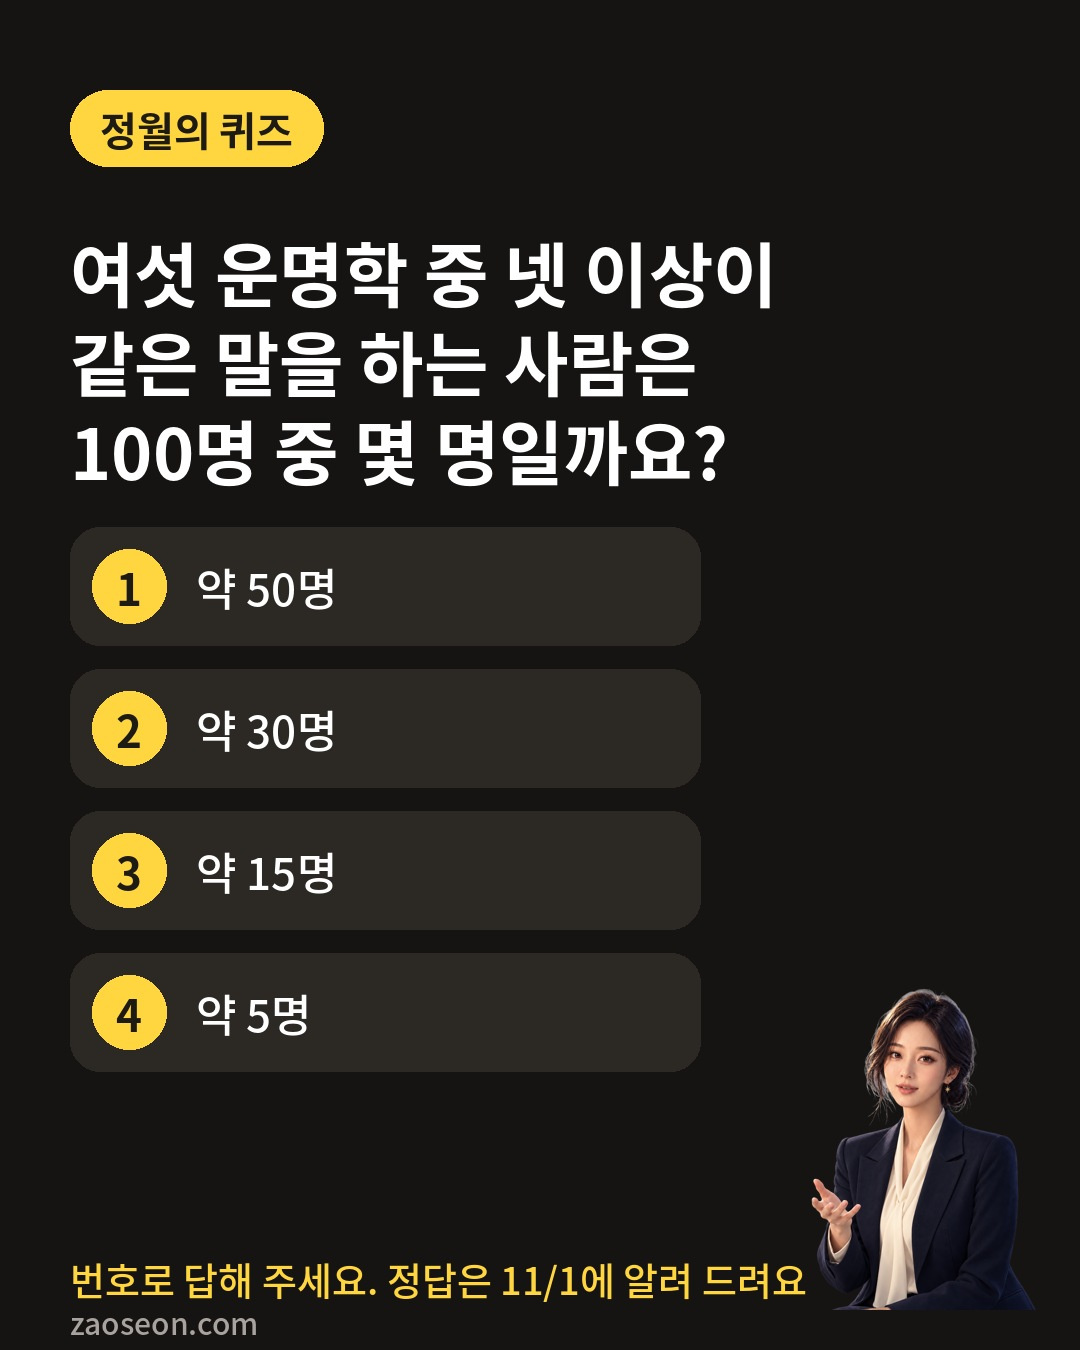
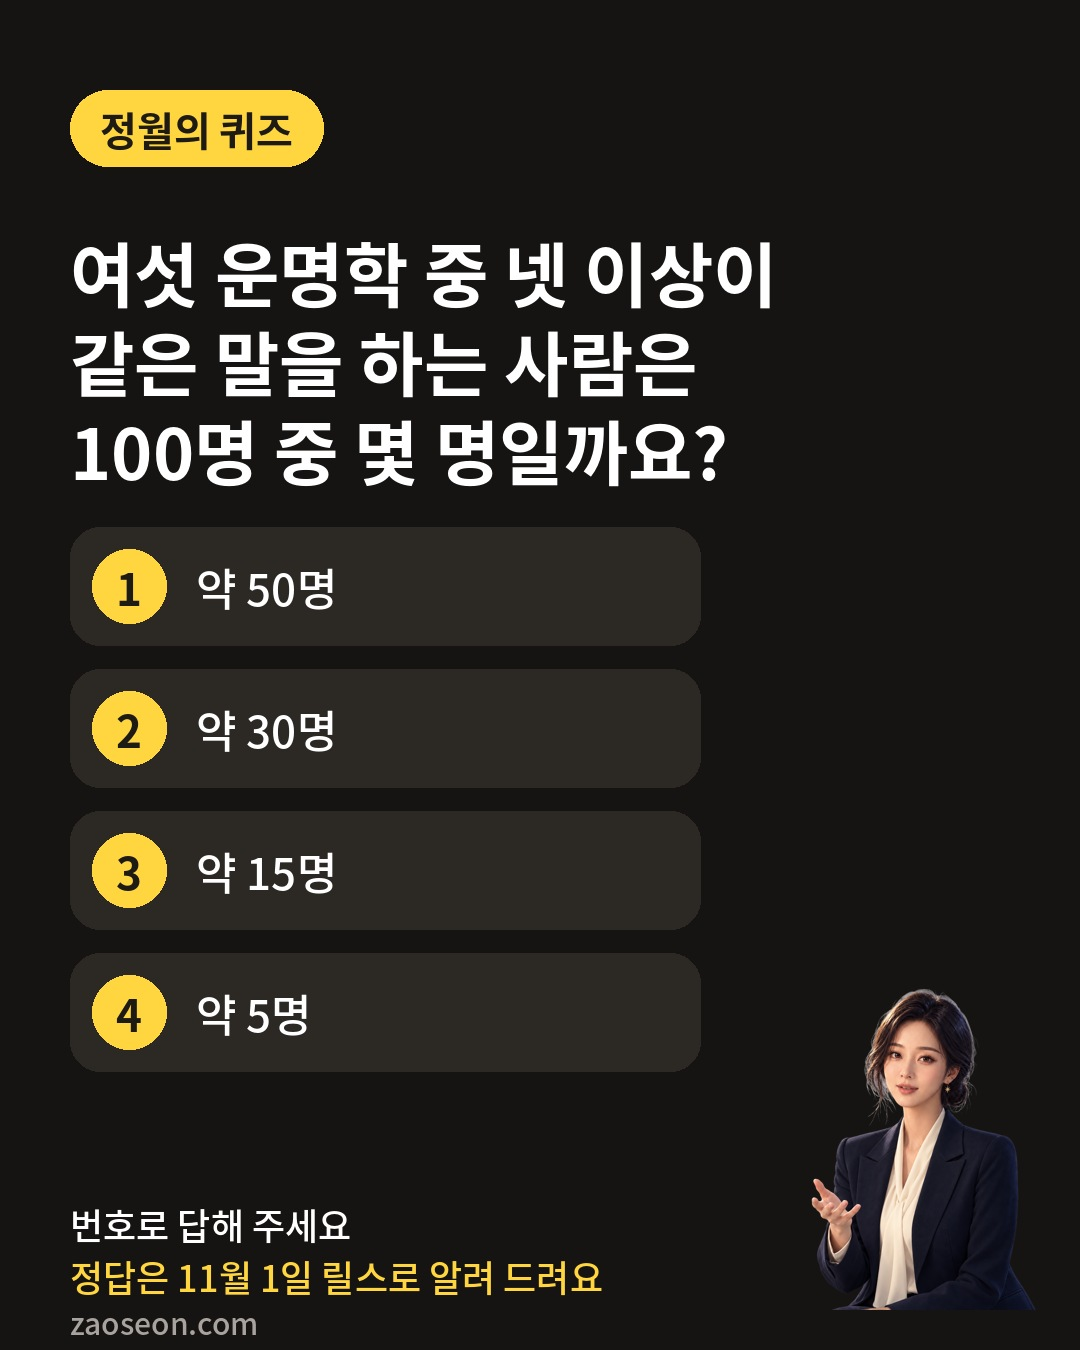
퀴즈 카드 문구: 정답은 11월 1일 릴스로

Changed region(s): [[0.0611, 0.9022, 0.7639, 0.9644]]

diff --git a/pipeline/vote_card.py b/pipeline/vote_card.py
@@ -18,12 +18,14 @@ def card(path, badge, q_lines, opts, foot, face="v8_gesture", qsize=92, bar_righ
     fp = os.path.join(ROOT, "characters", "cut", face + ".png")
     if os.path.exists(fp):
         fc = Image.open(fp).convert("RGBA"); r = 330 / fc.height; fc = fc.resize((int(fc.width * r), 330)); im.paste(fc, (W - fc.width - 40, H - 330 - 40), fc)
-    d.text((70, H - 100), foot, font=F(FM, 38), fill=(255, 214, 64)); d.text((70, H - 50), "zaoseon.com", font=F(FM, 30), fill=(168, 163, 158))
+    fl = foot if isinstance(foot, list) else [foot]
+    for k, l in enumerate(fl): d.text((70, H - 100 - (len(fl) - 1 - k) * 52), l, font=F(FM, 36), fill=(255, 255, 255) if (len(fl) > 1 and k == 0) else (255, 214, 64))
+    d.text((70, H - 50), "zaoseon.com", font=F(FM, 30), fill=(168, 163, 158))
     im.save(path, quality=93)
 if __name__ == "__main__":
     os.makedirs(os.path.join(ROOT, "2026-w42vote"), exist_ok=True)
     card(os.path.join(ROOT, "2026-w42vote", "vote_vs.jpg"), "정월의 질문", ["사주와 별자리가", "다른 말을 하면,", "나는?"],
          [(1, "사주 말이 더 맞는 것 같아요"), (2, "별자리 말이 더 맞는 것 같아요"), (3, "둘 다 조금씩 맞아요"), (4, "아직 잘 모르겠어요")], "번호로 댓글을 남겨 주세요")
     card(os.path.join(ROOT, "2026-w42vote", "quiz_four.jpg"), "정월의 퀴즈", ["여섯 운명학 중 넷 이상이", "같은 말을 하는 사람은", "100명 중 몇 명일까요?"],
-         [(1, "약 50명"), (2, "약 30명"), (3, "약 15명"), (4, "약 5명")], "번호로 답해 주세요. 정답은 11/1에 알려 드려요", qsize=70, bar_right=700)
+         [(1, "약 50명"), (2, "약 30명"), (3, "약 15명"), (4, "약 5명")], ["번호로 답해 주세요", "정답은 11월 1일 릴스로 알려 드려요"], qsize=70, bar_right=700)
     print("ok")
